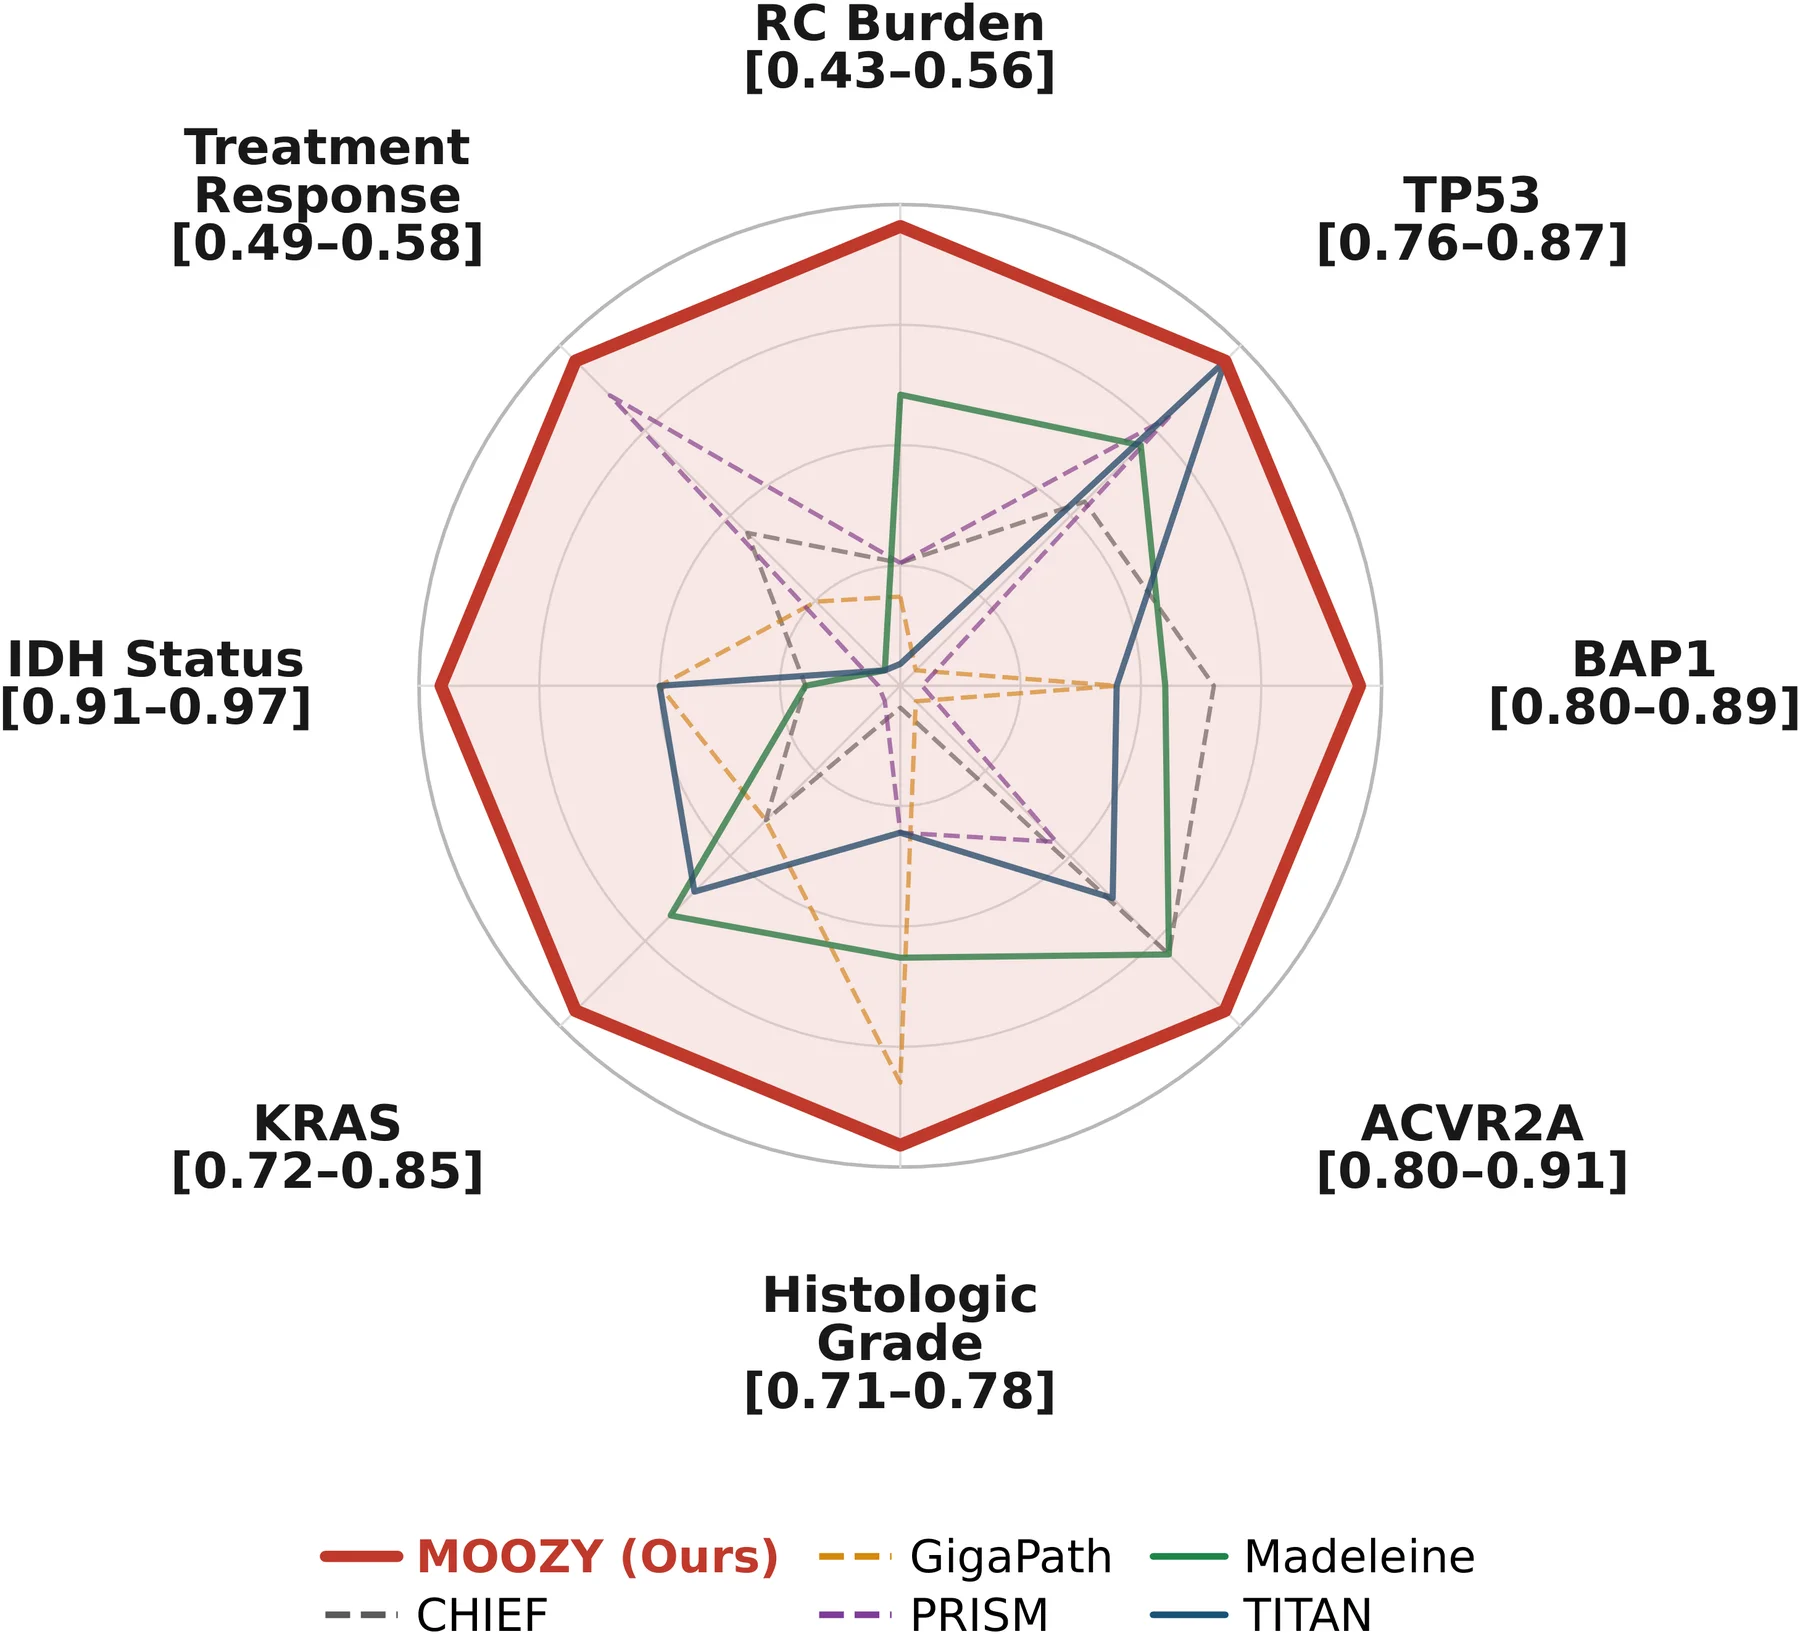
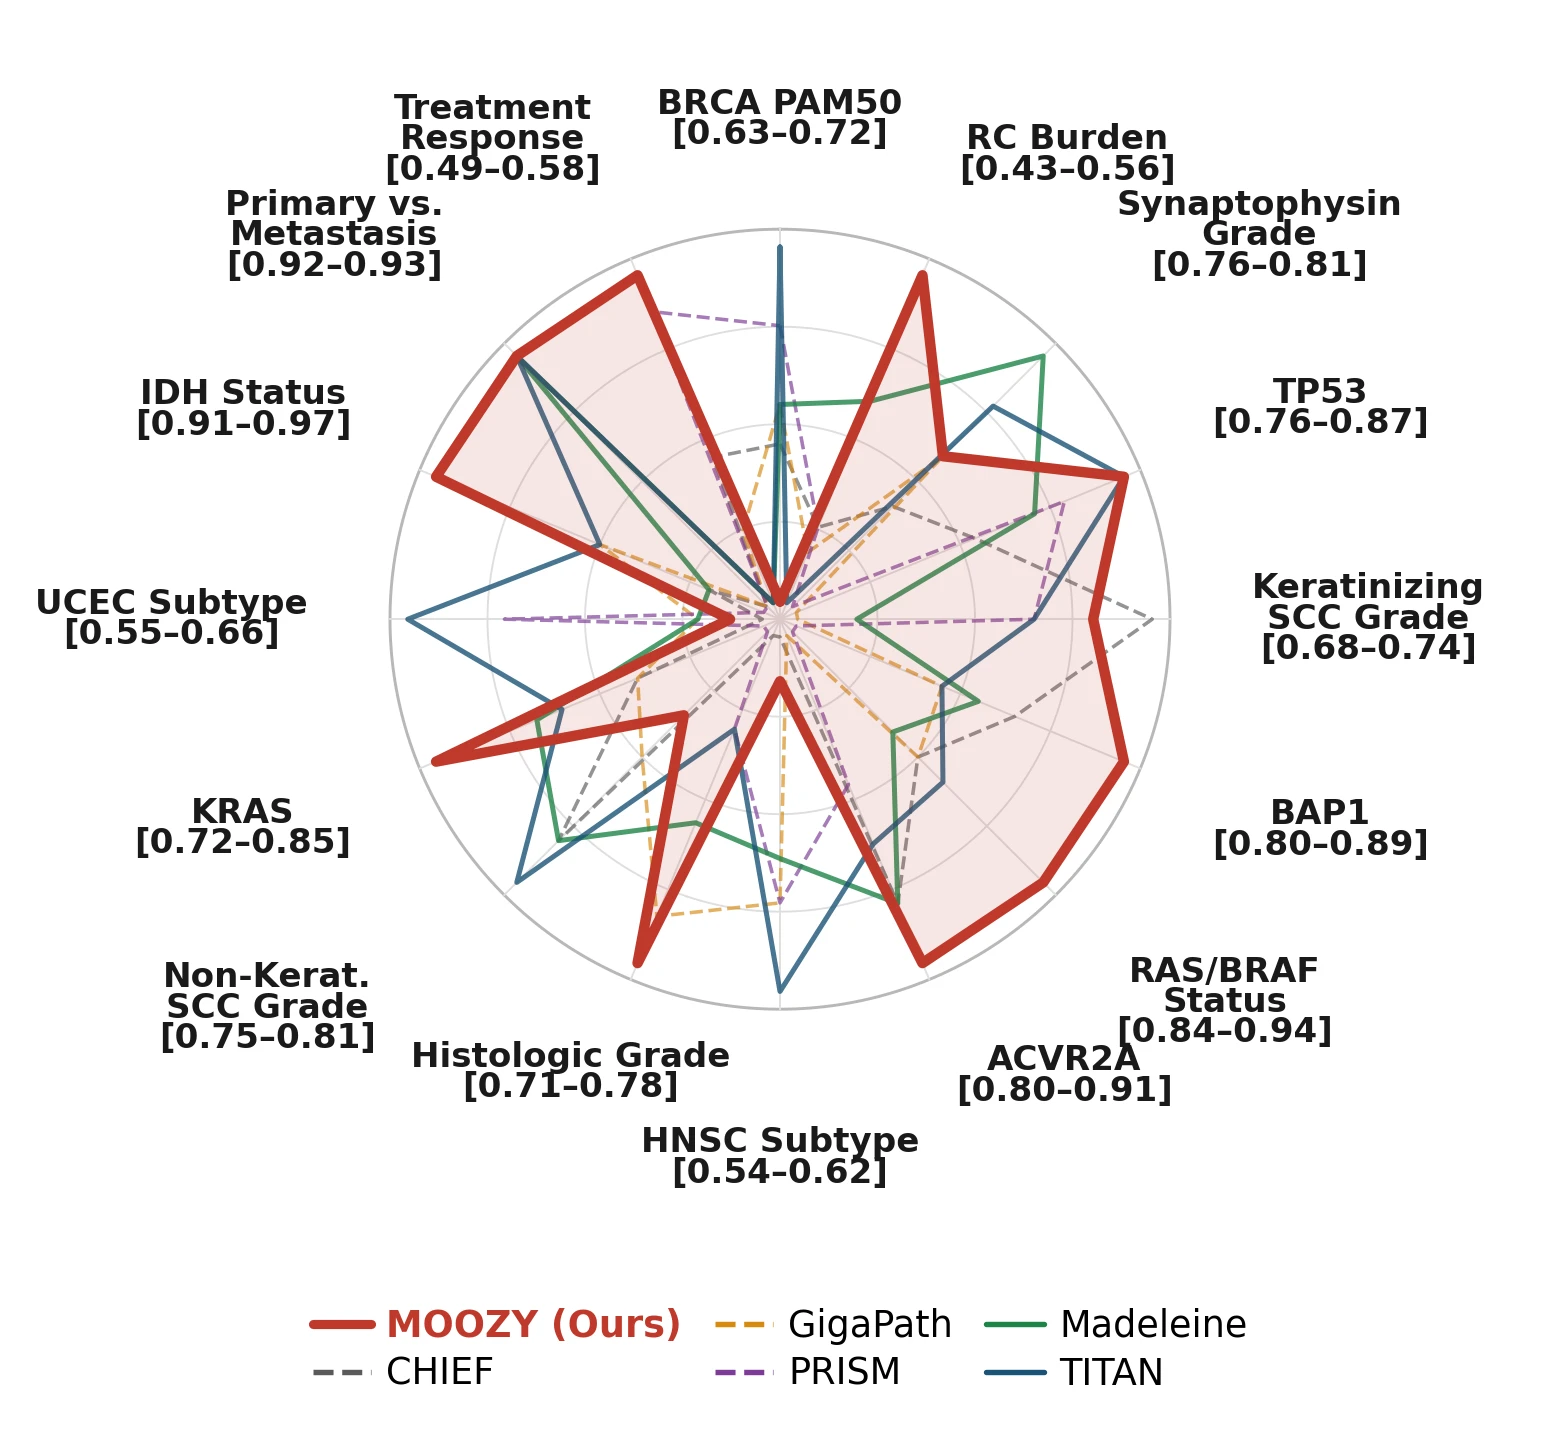
docs: sync project page with camera-ready paper
Update the gh-pages project page to match the ECCV 2026 camera-ready
paper and repo. Evaluation moved from 8 to 16 held-out tasks.

- abstract: replace with camera-ready text (sixteen tasks; PRISM
  +4.19/+7.93/+6.95; 85.77M params, 14x smaller than GigaPath)
- results: rebuild encoder table (16 tasks), MIL macro, and ablation
  (5 configs) with camera-ready numbers and best/second markers
- captions: eight -> sixteen held-out tasks (radar, scatter, encoder,
  MIL, ablation)
- data scale: add 45,179 unique whole-slide images
- attention: note eight held-out cohorts; add TITAN/PRISM gap scores
- citation: @user -> @user (ECCV)
- hero: add "Accepted at ECCV 2026" badge
- quick start: list AtlasPatch, SAM2, OpenSlide dependencies
- meta tags: refresh description/og:description
- figures: regenerate radar_comparison and scatter_comparison_bubble
  webp from camera-ready PNGs

diff --git a/index.html b/index.html
@@ -4,9 +4,9 @@
   <meta charset="utf-8">
   <meta name="viewport" content="width=device-width, initial-scale=1">
   <title>MOOZY: A Patient-First Foundation Model for Computational Pathology</title>
-  <meta name="description" content="MOOZY is a patient-first foundation model for computational pathology. 85M parameters, trained on 77K public slides across 333 clinical tasks.">
+  <meta name="description" content="MOOZY is a patient-first foundation model for computational pathology. 85.77M parameters (14&times; smaller than GigaPath), trained entirely on public data: 77,134 slides and 333 clinical tasks. Best macro weighted F1 and balanced accuracy across sixteen held-out tasks.">
   <meta property="og:title" content="MOOZY: A Patient-First Foundation Model for Computational Pathology">
-  <meta property="og:description" content="A patient-first pathology foundation model. 85M params. Trained on 77K public slides. 333 tasks. Fully open.">
+  <meta property="og:description" content="A patient-first pathology foundation model. 85.77M params, 14&times; smaller than GigaPath. Trained on 77,134 public slides across 333 tasks. Fully open. Strongest macro F1 and balanced accuracy on sixteen held-out tasks.">
   <meta property="og:type" content="website">
   <meta property="og:url" content="https://atlasanalyticslab.github.io/MOOZY/">
   <meta name="twitter:card" content="summary_large_image">
@@ -38,6 +38,8 @@
       <sup>6</sup>Polytechnique Montr&eacute;al &ensp;
       <sup>7</sup>McGill University
     </p>
+
+    <p class="venue-badge" style="margin:0.25rem 0 0.9rem; font-weight:600; letter-spacing:0.02em;"><a href="https://eccv.ecva.net/" style="color:#7B1FA2;">&#127942; Accepted at ECCV 2026</a></p>
 
     <div class="link-row">
       <a href="https://arxiv.org/abs/2603.27048">&#128196; Paper</a>
@@ -83,7 +85,7 @@ pip install moozy
 <span class="comment"># encode from pre-computed H5 feature files</span>
 moozy encode slide_1.h5 slide_2.h5 -o case_embedding.h5
 
-<span class="comment"># encode from raw whole-slide images (requires atlas-patch)</span>
+<span class="comment"># encode from raw whole-slide images (requires AtlasPatch, SAM2, and OpenSlide)</span>
 moozy encode slide_1.svs slide_2.svs -o case_embedding.h5 --target_mag 20</div>
     <p style="margin-top:0.8rem; color: var(--text-secondary); font-size:0.9rem; text-align:center;">
       Checkpoint and task definitions are downloaded automatically from
@@ -97,7 +99,7 @@ moozy encode slide_1.svs slide_2.svs -o case_embedding.h5 --target_mag 20</div>
   <div class="container" style="max-width:850px">
     <h2 class="section-heading">Abstract</h2>
     <p style="line-height:1.8; font-size:1.1rem;">
-      Computational pathology needs whole-slide image (WSI) foundation models that transfer across diverse clinical tasks, yet current approaches remain largely slide-centric, often depend on private data and expensive paired-report supervision, and do not explicitly model relationships among multiple slides from the same patient. We present MOOZY, a patient-first pathology foundation model in which the patient case, not the individual slide, is the core unit of representation. MOOZY explicitly models dependencies across all slides from the same patient via a case transformer during pretraining, combining multi-stage open self-supervision with scaled low-cost task supervision. In Stage&nbsp;1, we pretrain a vision-only slide encoder on 77,134 public slide feature grids using masked self-distillation. In Stage&nbsp;2, we align these representations with clinical semantics using a case transformer and multi-task supervision over 333 tasks from 56 public datasets, including 205 classification and 128 survival tasks across four endpoints. Across eight held-out tasks with five-fold frozen-feature probe evaluation, MOOZY achieves best or tied-best performance on most metrics and improves macro averages over TITAN by +7.37%, +5.50%, and +7.83% and over PRISM by +8.83%, +10.70%, and +9.78% for weighted F1, weighted ROC-AUC, and balanced accuracy, respectively.
+      Computational pathology needs whole-slide image (WSI) foundation models that transfer across diverse clinical tasks, yet current approaches remain largely slide-centric, often depend on private data and expensive paired-report supervision, and do not explicitly model relationships among multiple slides from the same patient. We present MOOZY, a patient-first pathology foundation model in which the patient case, not the individual slide, is the core unit of representation. MOOZY explicitly models dependencies across all slides from the same patient via a case transformer during pretraining, combining multi-stage self-supervision with scaled low-cost task supervision. In Stage&nbsp;1, we pretrain a vision-only slide encoder on 77,134 public slide feature grids using masked self-distillation. In Stage&nbsp;2, we align these representations with clinical semantics using a case transformer and multi-task supervision over 333 tasks from 56 public datasets, including 205 classification and 128 survival tasks across four endpoints. Across sixteen held-out tasks, MOOZY improves macro weighted F1, balanced accuracy, and macro weighted ROC-AUC relative to PRISM by +4.19%, +7.93%, and +6.95%, respectively. MOOZY is also parameter efficient with 85.77M parameters, 14&times; smaller than GigaPath. These results suggest that patient-level pretraining yields transferable embeddings, providing a path toward scalable patient-first histopathology foundation models.
     </p>
   </div>
 </section>
@@ -134,7 +136,7 @@ moozy encode slide_1.svs slide_2.svs -o case_embedding.h5 --target_mag 20</div>
         <p style="line-height:1.8; font-size:1.1rem;">
           MOOZY is trained entirely on public data. Stage&nbsp;1 uses 77,134 slide feature grids
           (53,286 at 20&times; and 23,848 at 40&times;) extracted from ~1.67 billion patches across ~31.8&nbsp;TB of raw WSI data.
-          Stage&nbsp;2 uses 41,089 supervised cases across 333 tasks from 56 datasets &mdash;
+          Stage&nbsp;2 uses 41,089 supervised cases (45,179 unique whole-slide images) across 333 tasks from 56 datasets &mdash;
           all 32 TCGA cohorts, all 10 CPTAC cohorts, REG, BC-Therapy, BRACS, CAMELYON17,
           DHMC Kidney, DHMC LUAD, EBRAINS, IMP Colorectum, IMP Cervix, MBC, MUT-HET-RCC,
           NADT Prostate, NAT-BRCA, and PANDA. Supervision covers 205 classification and 128 survival tasks
@@ -166,12 +168,12 @@ moozy encode slide_1.svs slide_2.svs -o case_embedding.h5 --target_mag 20</div>
           <div class="column is-6 has-text-centered">
             <img src="static/images/radar_comparison.webp" alt="Radar comparison" class="fig-clickable"
                  data-full="static/images/radar_comparison.webp" loading="lazy" style="max-width:100%; border-radius:8px;">
-            <p class="fig-caption">Macro-average radar comparison across slide encoders on eight held-out tasks.</p>
+            <p class="fig-caption">Macro-average radar comparison across slide encoders on sixteen held-out tasks.</p>
           </div>
           <div class="column is-6 has-text-centered">
             <img src="static/images/scatter_comparison_bubble.webp" alt="Scatter comparison" class="fig-clickable"
                  data-full="static/images/scatter_comparison_bubble.webp" loading="lazy" style="max-width:100%; border-radius:8px;">
-            <p class="fig-caption">Parameter count vs. macro F1. Bubble size indicates total parameters.</p>
+            <p class="fig-caption">Parameter count vs. macro F1 across sixteen held-out tasks. Bubble size indicates total parameters.</p>
           </div>
         </div>
       </div>
@@ -179,7 +181,7 @@ moozy encode slide_1.svs slide_2.svs -o case_embedding.h5 --target_mag 20</div>
       <!-- Tab: Encoder Comparison -->
       <div id="tab-encoder" class="tab-content">
         <p style="margin-bottom:1rem; color: var(--text-secondary); text-align:center; font-size:0.9rem;">
-          Frozen-feature MLP probe on eight held-out tasks. <strong>Bold</strong> = best, <u>underline</u> = second best. Mean &plusmn; std over 5 folds.
+          Frozen-feature MLP probe on sixteen held-out tasks. <strong>Bold</strong> = best, <u>underline</u> = second best. Mean &plusmn; std over 5 folds.
         </p>
         <div class="table-scroll">
           <table class="results-table">
@@ -227,6 +229,38 @@ moozy encode slide_1.svs slide_2.svs -o case_embedding.h5 --target_mag 20</div>
               <tr><td class="task-label" rowspan="3">Treatment Response</td><td>F1</td><td>0.53</td><td>0.51</td><td class="second">0.57</td><td>0.49</td><td>0.49</td><td class="col-moozy best">0.58</td></tr>
               <tr><td>AUC</td><td class="best">0.70</td><td>0.68</td><td class="second">0.69</td><td>0.59</td><td>0.60</td><td class="col-moozy">0.68</td></tr>
               <tr><td>Bal. Acc</td><td>0.48</td><td>0.40</td><td class="best">0.51</td><td>0.35</td><td>0.37</td><td class="col-moozy second">0.48</td></tr>
+
+              <tr><td class="task-label" rowspan="3">BRCA PAM50 Subtype</td><td>F1</td><td>0.67</td><td>0.68</td><td class="second">0.70</td><td>0.68</td><td class="best">0.72</td><td class="col-moozy">0.63</td></tr>
+              <tr><td>AUC</td><td>0.83</td><td>0.83</td><td class="second">0.85</td><td>0.84</td><td class="best">0.87</td><td class="col-moozy">0.80</td></tr>
+              <tr><td>Bal. Acc</td><td>0.51</td><td>0.52</td><td class="second">0.57</td><td>0.53</td><td class="best">0.58</td><td class="col-moozy">0.50</td></tr>
+
+              <tr><td class="task-label" rowspan="3">HNSC mRNA Subtype</td><td>F1</td><td>0.54</td><td>0.60</td><td class="second">0.60</td><td>0.59</td><td class="best">0.62</td><td class="col-moozy">0.55</td></tr>
+              <tr><td>AUC</td><td>0.75</td><td>0.77</td><td class="second">0.78</td><td>0.77</td><td class="best">0.79</td><td class="col-moozy">0.72</td></tr>
+              <tr><td>Bal. Acc</td><td>0.55</td><td class="second">0.61</td><td>0.59</td><td>0.58</td><td class="best">0.61</td><td class="col-moozy">0.54</td></tr>
+
+              <tr><td class="task-label" rowspan="3">UCEC Genomic Subtype</td><td>F1</td><td>0.55</td><td>0.57</td><td class="second">0.63</td><td>0.57</td><td class="best">0.66</td><td class="col-moozy">0.56</td></tr>
+              <tr><td>AUC</td><td>0.75</td><td>0.76</td><td class="second">0.81</td><td>0.75</td><td class="best">0.82</td><td class="col-moozy">0.74</td></tr>
+              <tr><td>Bal. Acc</td><td>0.53</td><td>0.54</td><td class="second">0.60</td><td>0.55</td><td class="best">0.62</td><td class="col-moozy">0.52</td></tr>
+
+              <tr><td class="task-label" rowspan="3">Synaptophysin Grade</td><td>F1</td><td>0.78</td><td>0.79</td><td>0.76</td><td class="best">0.81</td><td class="second">0.80</td><td class="col-moozy">0.79</td></tr>
+              <tr><td>AUC</td><td>0.61</td><td class="best">0.74</td><td>0.50</td><td class="second">0.68</td><td>0.64</td><td class="col-moozy">0.61</td></tr>
+              <tr><td>Bal. Acc</td><td>0.64</td><td class="best">0.69</td><td>0.58</td><td>0.65</td><td class="second">0.68</td><td class="col-moozy">0.65</td></tr>
+
+              <tr><td class="task-label" rowspan="3">RAS/BRAF Status</td><td>F1</td><td>0.89</td><td>0.89</td><td>0.84</td><td>0.88</td><td class="second">0.90</td><td class="col-moozy best">0.94</td></tr>
+              <tr><td>AUC</td><td>0.68</td><td>0.48</td><td>0.56</td><td>0.33</td><td class="best">0.80</td><td class="col-moozy second">0.75</td></tr>
+              <tr><td>Bal. Acc</td><td>0.68</td><td>0.68</td><td>0.57</td><td>0.66</td><td class="second">0.68</td><td class="col-moozy best">0.85</td></tr>
+
+              <tr><td class="task-label" rowspan="3">Keratinizing SCC Grade</td><td>F1</td><td class="best">0.74</td><td>0.68</td><td>0.72</td><td>0.69</td><td>0.72</td><td class="col-moozy second">0.73</td></tr>
+              <tr><td>AUC</td><td class="best">0.75</td><td>0.69</td><td class="second">0.74</td><td>0.72</td><td>0.72</td><td class="col-moozy">0.72</td></tr>
+              <tr><td>Bal. Acc</td><td class="best">0.73</td><td>0.68</td><td>0.72</td><td>0.69</td><td>0.71</td><td class="col-moozy second">0.72</td></tr>
+
+              <tr><td class="task-label" rowspan="3">Non-Keratinizing SCC Grade</td><td>F1</td><td>0.80</td><td>0.78</td><td>0.75</td><td class="second">0.80</td><td class="best">0.81</td><td class="col-moozy">0.77</td></tr>
+              <tr><td>AUC</td><td class="second">0.66</td><td>0.61</td><td>0.52</td><td>0.66</td><td class="best">0.71</td><td class="col-moozy">0.66</td></tr>
+              <tr><td>Bal. Acc</td><td class="best">0.79</td><td>0.75</td><td>0.72</td><td class="second">0.79</td><td>0.78</td><td class="col-moozy">0.73</td></tr>
+
+              <tr><td class="task-label" rowspan="3">Primary vs. Metastasis</td><td>F1</td><td>0.92</td><td>0.92</td><td>0.92</td><td class="second">0.93</td><td>0.93</td><td class="col-moozy best">0.93</td></tr>
+              <tr><td>AUC</td><td>0.62</td><td>0.60</td><td>0.66</td><td class="second">0.75</td><td class="best">0.77</td><td class="col-moozy">0.69</td></tr>
+              <tr><td>Bal. Acc</td><td>0.57</td><td>0.58</td><td>0.63</td><td>0.63</td><td class="second">0.64</td><td class="col-moozy best">0.65</td></tr>
             </tbody>
           </table>
         </div>
@@ -235,7 +269,7 @@ moozy encode slide_1.svs slide_2.svs -o case_embedding.h5 --target_mag 20</div>
       <!-- Tab: MIL Comparison -->
       <div id="tab-mil" class="tab-content">
         <p style="margin-bottom:1rem; color: var(--text-secondary); text-align:center; font-size:0.9rem;">
-          Macro-average across eight held-out tasks. Each entry averages over five MIL architectures (MeanMIL, ABMIL, CLAM, DSMIL, TransMIL).
+          Macro-average across sixteen held-out tasks. Each entry averages over five MIL architectures (MeanMIL, ABMIL, CLAM, DSMIL, TransMIL).
         </p>
         <div style="max-width:700px; margin:0 auto;">
           <table class="results-table">
@@ -243,9 +277,9 @@ moozy encode slide_1.svs slide_2.svs -o case_embedding.h5 --target_mag 20</div>
               <tr><th>Metric</th><th>Backbone</th><th>UNI v2</th><th>Phikon v2</th><th>CONCH v1.5</th><th>MUSK</th><th class="col-moozy">MOOZY</th></tr>
             </thead>
             <tbody>
-              <tr><td>F1 (weighted)</td><td>0.733</td><td>0.716</td><td>0.715</td><td class="second">0.746</td><td>0.729</td><td class="col-moozy best">0.801</td></tr>
-              <tr><td>ROC-AUC (weighted)</td><td>0.735</td><td>0.719</td><td>0.724</td><td class="second">0.751</td><td>0.725</td><td class="col-moozy best">0.815</td></tr>
-              <tr><td>Balanced Acc</td><td>0.686</td><td>0.660</td><td>0.654</td><td class="second">0.696</td><td>0.679</td><td class="col-moozy best">0.758</td></tr>
+              <tr><td>F1 (weighted)</td><td>0.723</td><td>0.722</td><td>0.714</td><td class="second">0.740</td><td>0.720</td><td class="col-moozy best">0.769</td></tr>
+              <tr><td>ROC-AUC (weighted)</td><td>0.707</td><td>0.707</td><td>0.697</td><td class="second">0.720</td><td>0.695</td><td class="col-moozy best">0.763</td></tr>
+              <tr><td>Balanced Acc</td><td>0.643</td><td>0.637</td><td>0.625</td><td class="second">0.661</td><td>0.637</td><td class="col-moozy best">0.702</td></tr>
             </tbody>
           </table>
         </div>
@@ -254,7 +288,7 @@ moozy encode slide_1.svs slide_2.svs -o case_embedding.h5 --target_mag 20</div>
       <!-- Tab: Ablation -->
       <div id="tab-ablation" class="tab-content">
         <p style="margin-bottom:1rem; color: var(--text-secondary); text-align:center; font-size:0.9rem;">
-          Macro-average across eight held-out tasks. Each stage and the case aggregator are toggled independently.
+          Macro-average across sixteen held-out tasks. Each stage and the case aggregator are toggled independently.
         </p>
         <div style="max-width:700px; margin:0 auto;">
           <table class="results-table">
@@ -262,10 +296,11 @@ moozy encode slide_1.svs slide_2.svs -o case_embedding.h5 --target_mag 20</div>
               <tr><th class="task-label">Setting</th><th>Stage 1</th><th>Stage 2</th><th>Case Agg.</th><th>F1</th><th>AUC</th><th>Bal. Acc</th></tr>
             </thead>
             <tbody>
-              <tr><td class="task-label">Stage 1 only</td><td>&#10003;</td><td>&#10007;</td><td>&#10007;</td><td>0.760</td><td>0.753</td><td>0.701</td></tr>
-              <tr><td class="task-label">Stage 2 only</td><td>&#10007;</td><td>&#10003;</td><td>&#10003;</td><td>0.748</td><td>0.725</td><td>0.701</td></tr>
-              <tr><td class="task-label">MOOZY w/o case agg.</td><td>&#10003;</td><td>&#10003;</td><td>&#10007;</td><td>0.771</td><td>0.789</td><td>0.729</td></tr>
-              <tr style="background: var(--accent-light)"><td class="task-label"><strong>MOOZY</strong></td><td>&#10003;</td><td>&#10003;</td><td>&#10003;</td><td class="best">0.801</td><td class="best">0.815</td><td class="best">0.758</td></tr>
+              <tr><td class="task-label">Stage 1 only</td><td>&#10003;</td><td>&#10007;</td><td>&#10007;</td><td>0.743</td><td>0.715</td><td>0.662</td></tr>
+              <tr><td class="task-label">Stage 2 only w/o case agg.</td><td>&#10007;</td><td>&#10003;</td><td>&#10007;</td><td>0.743</td><td>0.721</td><td>0.664</td></tr>
+              <tr><td class="task-label">Stage 2 only</td><td>&#10007;</td><td>&#10003;</td><td>&#10003;</td><td>0.731</td><td>0.697</td><td>0.659</td></tr>
+              <tr><td class="task-label">MOOZY w/o case agg.</td><td>&#10003;</td><td>&#10003;</td><td>&#10007;</td><td>0.749</td><td>0.737</td><td>0.682</td></tr>
+              <tr style="background: var(--accent-light)"><td class="task-label"><strong>MOOZY</strong></td><td>&#10003;</td><td>&#10003;</td><td>&#10003;</td><td class="best">0.769</td><td class="best">0.763</td><td class="best">0.702</td></tr>
             </tbody>
           </table>
         </div>
@@ -279,8 +314,8 @@ moozy encode slide_1.svs slide_2.svs -o case_embedding.h5 --target_mag 20</div>
   <div class="container">
     <h2 class="section-heading">Where Does MOOZY Look?</h2>
     <p style="text-align:center; margin-bottom:1.5rem; max-width:750px; margin-left:auto; margin-right:auto; font-size:1.1rem; line-height:1.8;">
-      A board-certified pathologist reviewed attention maps across 20 representative WSIs and five encoders.
-      MOOZY achieved the lowest mean semantic gap score (1.00) and near-balanced tumor vs. non-tumor attention (2.63),
+      A board-certified pathologist reviewed attention maps across 20 representative WSIs sampled from eight held-out evaluation cohorts and five encoders.
+      MOOZY achieved the lowest mean semantic gap score (1.00, versus 1.38 for TITAN and 1.75 for PRISM) and near-balanced tumor vs. non-tumor attention (shift 2.63),
       suggesting broad, diagnostically relevant coverage.
     </p>
 
@@ -358,13 +393,11 @@ moozy encode slide_1.svs slide_2.svs -o case_embedding.h5 --target_mag 20</div>
 <section class="section section-alt">
   <div class="container" style="max-width:700px">
     <h2 class="section-heading">Citation</h2>
-    <div class="bibtex-block"><button class="copy-btn">Copy</button><code>@misc{kotp2026moozypatientfirstfoundationmodel,
+    <div class="bibtex-block"><button class="copy-btn">Copy</button><code>@inproceedings{kotp2026moozypatientfirstfoundationmodel,
       title={MOOZY: A Patient-First Foundation Model for Computational Pathology},
-      author={Yousef Kotp and Vincent Quoc-Huy Trinh and Christopher Pal and Mahdi S. Hosseini},
+      author={Kotp, Yousef and Trinh, Vincent Quoc-Huy and Pal, Christopher and Hosseini, Mahdi S.},
+      booktitle={European Conference on Computer Vision (ECCV)},
       year={2026},
-      eprint={2603.27048},
-      archivePrefix={arXiv},
-      primaryClass={cs.CV},
       url={https://arxiv.org/abs/2603.27048},
 }</code></div>
   </div>